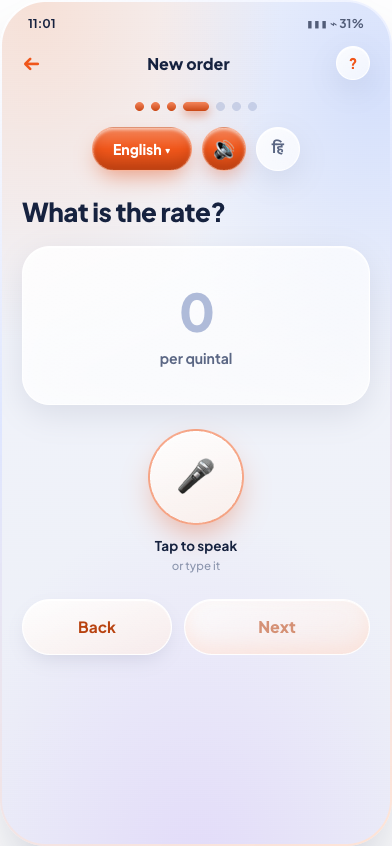
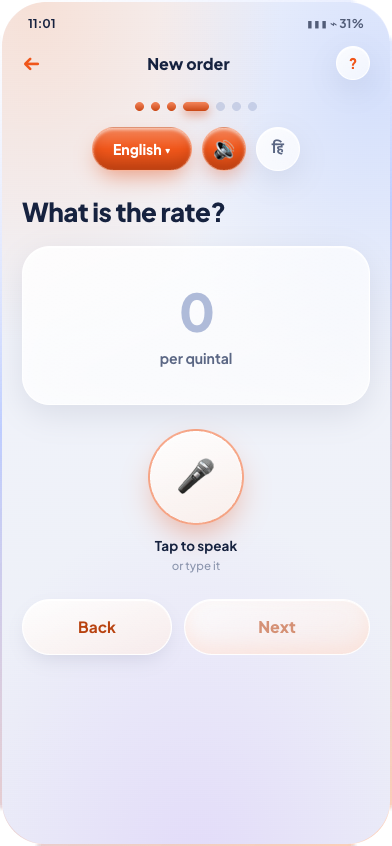
Give every screenshot a clean rounded silhouette
The two new captures went in raw, which was careless - they carried the light
grey backdrop the phone was shot against baked into their corners. Looking
properly, the original ten had the same fault with a dark backdrop instead, so
every card on the page has been arriving as a rectangle with somebody else's
background in its corners. That is what the unfinished edges were.

All twelve are now keyed and masked. The backdrop is found by flooding inward
from the four corners, which works whatever colour it is; the card is measured
from that, and the mask is then drawn as a real rounded rectangle rather than
taken from the flood. Drawing it matters - the flood stops at the antialiased
boundary and leaves a one-or-two pixel fringe of old backdrop clinging to the
arc, dark on one set and light on the other, and clearly visible once
composited.

The threshold is adaptive with a leak guard. The two sets need very different
values: a dark gradient needs a loose threshold to span it, while the light grey
backdrop sits about 28 levels from the card itself and floods straight through
the screen if the threshold is loose. Picking the largest threshold that leaves
the middle of the card untouched handles both.

Cards are also padded to one shared aspect, so they are all the same shape in
the reel rather than 0.463 and 0.472 mixed.

The script is checked in as tools-refine-screens.py and the process is in the
README, so the next capture does not repeat this.
[…]

diff --git a/tools-refine-screens.py b/tools-refine-screens.py
@@ -1,0 +1,90 @@
+#!/usr/bin/env python3
+"""Give every app screenshot a clean rounded silhouette.
+
+Each capture bakes in whatever sat behind the phone: the original set was shot
+on the app's dark backdrop, the newer exports on light grey. Either way the card
+arrives as a rectangle with a backdrop in its corners, which is what makes the
+edges look unfinished once the card is composited onto the page.
+
+Flood-filling inward from the four corners identifies that backdrop whatever its
+colour, so the same pass works on both sets. What survives is the card itself,
+cropped to its own bounds and padded back out to one shared aspect so every card
+in the reel is the same shape.
+"""
+import sys, os
+import numpy as np
+from PIL import Image, ImageDraw, ImageFilter
+
+TARGET_ASPECT = 392 / 846      # the shape the reel and the hero are built around
+THRESH = int(os.environ.get('THRESH', '60'))
+ERODE = int(os.environ.get('ERODE', '5'))   # MinFilter kernel; 5 trims ~2px
+
+
+def refine(src, dst):
+    im = Image.open(src).convert('RGB')
+    w, h = im.size
+
+    # The two sets need very different thresholds: the original captures sit on
+    # a dark gradient that a tight threshold cannot span, while the newer ones
+    # sit on light grey only ~28 levels from the card itself, where a loose
+    # threshold floods straight through the screen. So try increasing thresholds
+    # and keep the largest that still leaves the middle of the card untouched.
+    SENTINEL = (255, 0, 255)
+    cy0, cy1 = int(h * 0.35), int(h * 0.65)
+    cx0, cx1 = int(w * 0.30), int(w * 0.70)
+    alpha = None
+    for t in (14, 18, 24, 32, 42, 55, 70):
+        work = im.copy()
+        for xy in ((0, 0), (w - 1, 0), (0, h - 1), (w - 1, h - 1)):
+            ImageDraw.floodfill(work, xy, SENTINEL, thresh=t)
+        a = np.asarray(work)
+        outside = (a[..., 0] == 255) & (a[..., 1] == 0) & (a[..., 2] == 255)
+        if outside[cy0:cy1, cx0:cx1].any():
+            break                      # leaked into the card — the previous t stands
+        cand = np.where(outside, 0, 255).astype(np.uint8)
+        corner = cand[:h // 12, :w // 8]
+        if (corner == 0).mean() > 0.02:
+            alpha = cand              # keying something real, and not leaking
+    if alpha is None:
+        raise SystemExit(f'{src}: backdrop not separable from the card')
+
+    ys, xs = np.where(alpha > 0)
+    box = (int(xs.min()), int(ys.min()), int(xs.max()) + 1, int(ys.max()) + 1)
+    bw, bh = box[2] - box[0], box[3] - box[1]
+
+    # The flood gives a mask with a ragged, antialiased edge and a fringe of the
+    # old backdrop clinging to the arc. Rather than erode that away and hope, use
+    # it only to measure the card, then draw the mask exactly: a card is a
+    # rounded rectangle, so the clean answer is to render one.
+    # Measuring the radius off the flood mask under-reads it, because the mask
+    # still counts the fringe as card. The display corner radius on these
+    # devices is a fixed share of the screen width, so use that and let the
+    # inward pull below absorb the difference.
+    radius = round(bw * 0.108)
+
+    SS = 4                                        # supersample for a smooth arc
+    mask = Image.new('L', (bw * SS, bh * SS), 0)
+    ImageDraw.Draw(mask).rounded_rectangle(
+        (0, 0, bw * SS - 1, bh * SS - 1), radius=radius * SS, fill=255)
+    mask = mask.resize((bw, bh), Image.LANCZOS)
+    # Pull in by a hair so no row of the old backdrop survives under the arc.
+    mask = mask.filter(ImageFilter.MinFilter(ERODE))
+
+    card = Image.fromarray(np.asarray(im)[box[1]:box[3], box[0]:box[2]]).convert('RGB')
+    card.putalpha(mask)
+
+    # Pad to the shared aspect so every card in the reel is the same shape.
+    cw, ch = card.size
+    tw, th = cw, ch
+    if cw / ch > TARGET_ASPECT:
+        th = round(cw / TARGET_ASPECT)
+    else:
+        tw = round(ch * TARGET_ASPECT)
+    out = Image.new('RGBA', (tw, th), (0, 0, 0, 0))
+    out.paste(card, ((tw - cw) // 2, (th - ch) // 2))
+    out.save(dst)
+    return im.size, box, out.size
+
+
+if __name__ == '__main__':
+    print(refine(sys.argv[1], sys.argv[2]))

diff --git a/README.md b/README.md
@@ -36,6 +36,7 @@ There is no build step, so any static host serves this directly from the repo ro
 | `support.js`         | Claude Design `dc-runtime`. Parses `<x-dc>`, hoists `<helmet>` into `<head>`, resolves `{{ }}` bindings, and transpiles `<x-import>` components. Generated — do not edit. |
 | `nav.js`             | Retracts the nav pills on scroll down. Deliberately **not** inline in the `<helmet>` — see below. |
 | `flying-posters.jsx` | WebGL poster reel for the "all twelve screens" section. Adapted from React Bits so the page's own scroll drives it instead of hijacking the wheel. See [The user manual reel](#the-user-manual-reel). |
+| `tools-refine-screens.py` | Keys the backdrop out of a raw screenshot and gives it a clean rounded silhouette. Run it on any new capture before adding it — see below. |
 | `screens/`           | The twelve app screenshots, in the order a trade moves through them. WebP q88 — 304 KB for all twelve, against 4.3 MB as PNG. |
 
 ## How the page is built
@@ -207,6 +208,31 @@ done
 Text over the light half carries a **white** halo, not a dark one — `--lit`
 inverts the `text-shadow` along with the ink. Mid-grey body copy with a dark glow
 on a light, busy backdrop is what makes type look smudged rather than set.
+
+## Adding or replacing a screenshot
+
+**Do not drop a raw capture straight in.** Every screenshot arrives as a
+rectangle with whatever sat behind the phone baked into its corners — the
+original set was shot on the app's dark backdrop, later exports on light grey.
+Composited onto the page that reads as a dirty, unfinished edge, and the two sets
+do not match each other.
+
+```bash
+python3 tools-refine-screens.py raw-capture.png /tmp/out.png
+cwebp -lossless -m 6 -mt -quiet /tmp/out.png -o screens/03-weight.webp
+```
+
+The script floods inward from the four corners to find the backdrop whatever its
+colour, measures the card, then **draws** the mask as a real rounded rectangle
+rather than using the flood result directly. That matters: the flood stops at the
+antialiased boundary and leaves a one-or-two pixel fringe of the old backdrop
+clinging to the arc, which is visible once composited. It also pads every card to
+one shared aspect so they are all the same shape in the reel.
+
+The threshold is adaptive with a leak guard, because the two sets need very
+different values — a dark gradient needs a loose threshold to span it, while a
+light-grey backdrop sits only ~28 levels from the card and floods straight
+through the screen if the threshold is loose.
 
 ## The hero device mockup
 
